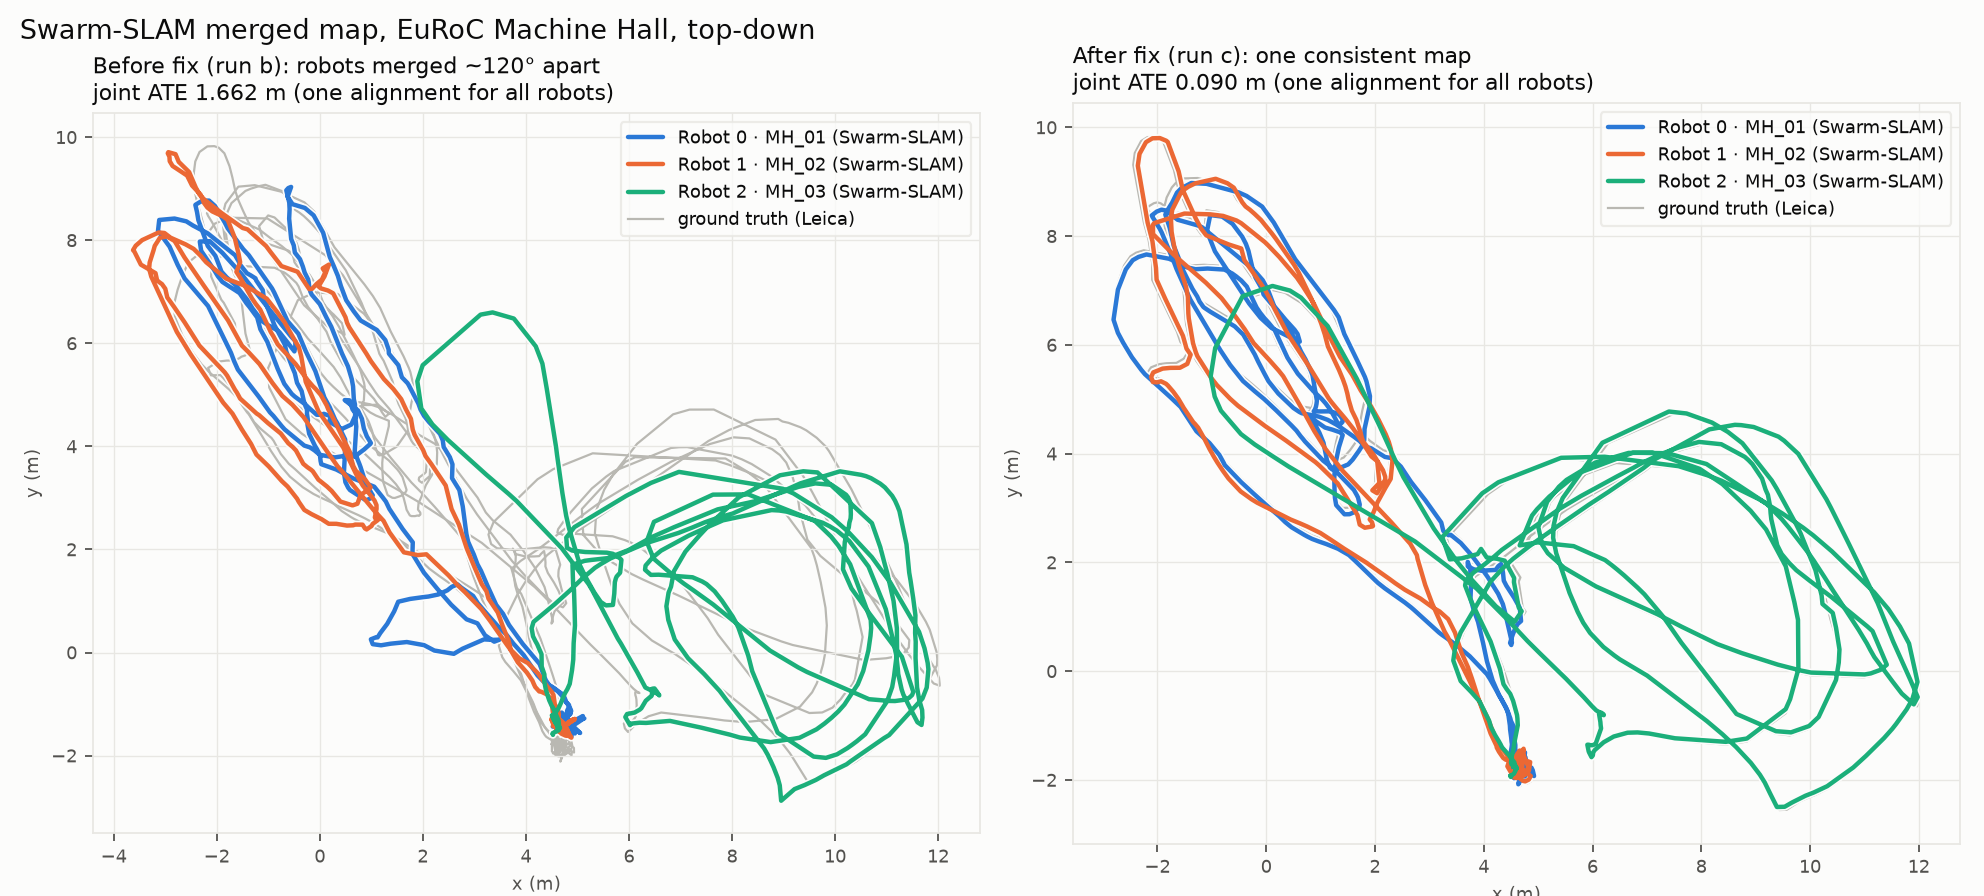
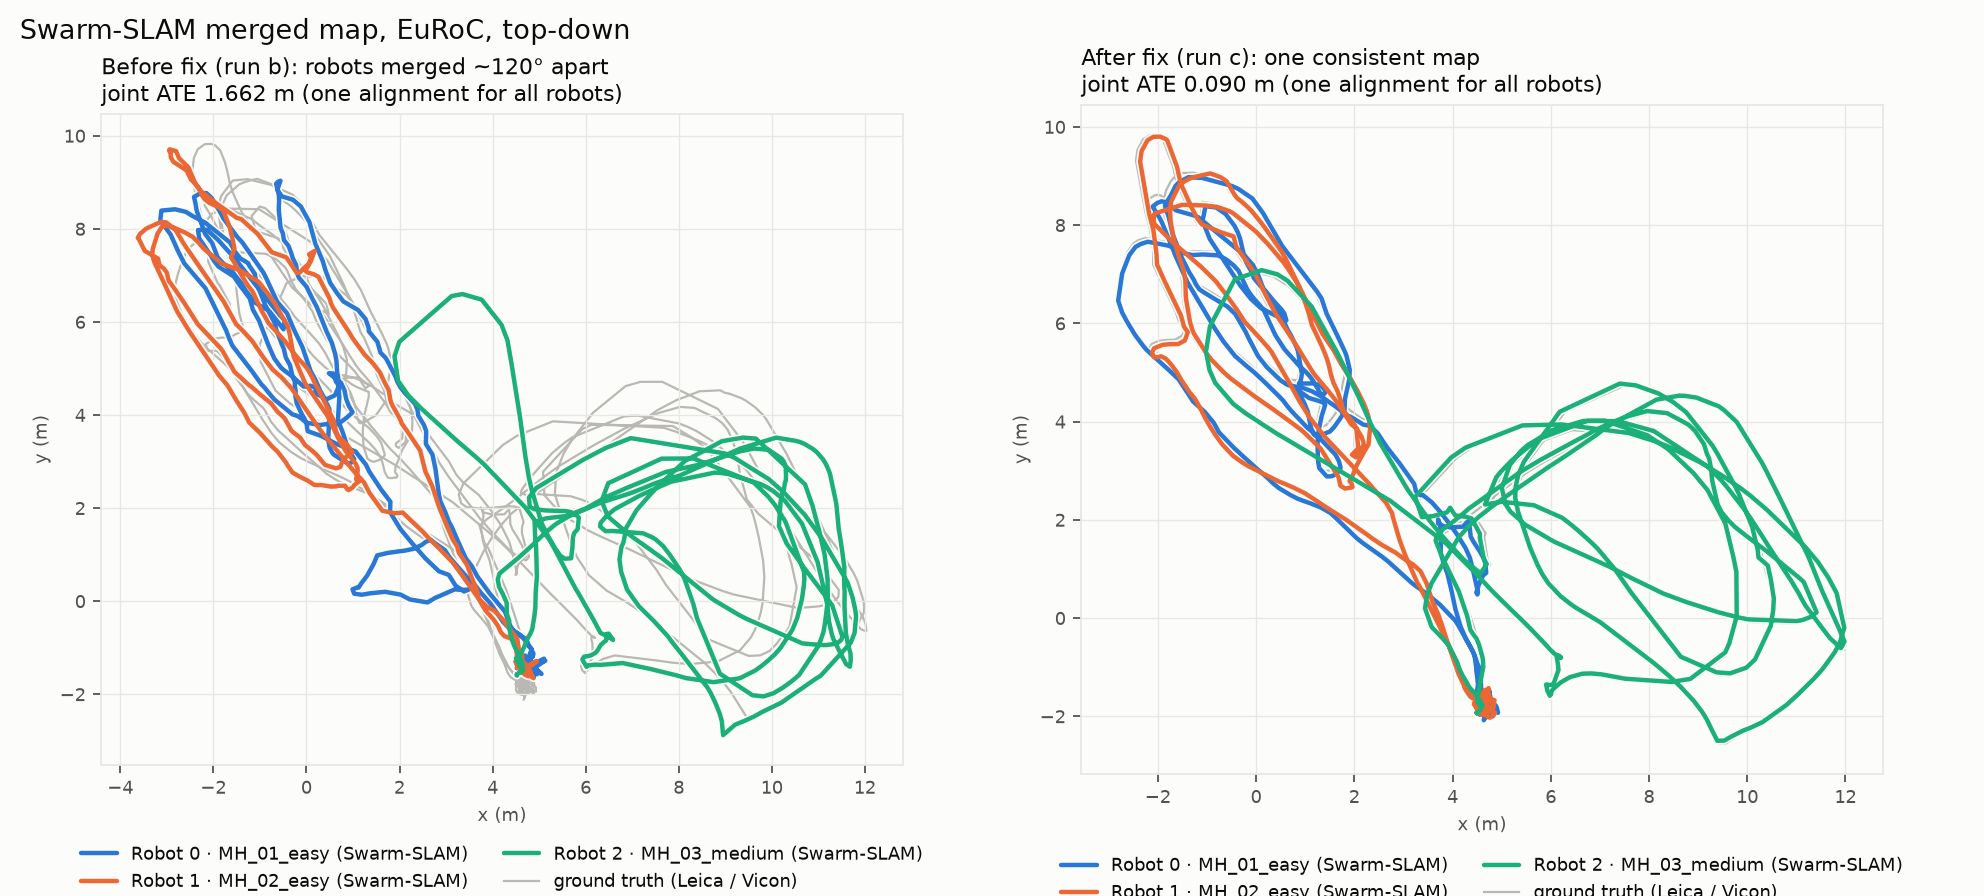
Vicon Room 1 run: joint ATE 0.895 -> 0.207 m merged; weak-tracking rule on tracking, not blur
Absolute blur threshold flagged 71-83% of normal Vicon frames (52 warnings); tracking-only
rule: 14, still catches both injected failures at the same times.

diff --git a/dashboard/index.html b/dashboard/index.html
@@ -136,7 +136,7 @@ td.num { font-variant-numeric: tabular-nums; }
 </main>
 <script>
 const CELL = 2.0;
-const WEAK_BLUR = 90, WEAK_TRACK = 0.5;
+const WEAK_TRACK = 0.5, MIN_FEATURES = 100;  // must match coordinator/main.py
 
 // Build the three tiles once; refresh() only updates their contents.
 const buildCameraTiles = () => document.getElementById("cams").innerHTML = [0, 1, 2].map(r => `
@@ -171,9 +171,9 @@ function renderCameras(s) {
     chip.className = "chip " + (q.weak ? "weak" : "ok");
     chip.textContent = q.weak ? "Tracking weak" : "Tracking OK";
     document.getElementById(`vals${r}`).innerHTML =
-      `<span>Blur <b>${fmt(q.blur, 0)}</b> <span class="t">(weak &lt; ${WEAK_BLUR})</span></span>` +
       `<span>Track inliers <b>${fmt(q.track_inliers, 2)}</b> <span class="t">(weak &lt; ${WEAK_TRACK})</span></span>` +
-      `<span>Features <b>${fmt(q.features, 0)}</b></span>`;
+      `<span>Features <b>${fmt(q.features, 0)}</b> <span class="t">(weak &lt; ${MIN_FEATURES})</span></span>` +
+      `<span>Blur <b>${fmt(q.blur, 0)}</b> <span class="t">(info)</span></span>`;
     const m = c.last_notification;
     document.getElementById(`msg${r}`).innerHTML = m
       ? `<span class="t">${hhmmss(m.t)}</span>${esc(m.message)}` : '<span class="empty">No message to this walker yet.</span>';

diff --git a/eval/quality_rules.py b/eval/quality_rules.py
@@ -1,0 +1,76 @@
+"""Compare weak-tracking rules across environments: warnings inside injected failure windows
+(should fire) vs everywhere else (should stay quiet).
+
+Usage: python -m eval.quality_rules <run_dir> [<run_dir> ...]
+Simulates the coordinator's 6-frame median window and 20 s cooldown on each run's quality events.
+"""
+import csv
+import json
+import statistics
+import sys
+from collections import deque
+
+WINDOW, COOLDOWN_S = 6, 20
+
+
+def rules():
+    # name -> fn(window_medians, baseline_blur) -> weak?
+    return {
+        "absolute (blur<90 or track<0.5)": lambda m, base: m["blur"] < 90 or m["track"] < 0.5,
+        "track only (<0.5)": lambda m, base: m["track"] < 0.5,
+        "relative (blur<0.35x own median or track<0.5)": lambda m, base: m["blur"] < 0.35 * base or m["track"] < 0.5,
+        "relative (blur<0.25x own median or track<0.5)": lambda m, base: m["blur"] < 0.25 * base or m["track"] < 0.5,
+    }
+
+
+def windows(run, r):
+    try:
+        rows = list(csv.DictReader(open(f"{run}/stamps_r{r}.csv")))
+    except FileNotFoundError:
+        return None
+    w = [int(x["ros_stamp_ns"]) / 1e9 for x in rows if x.get("perturbation")]
+    return (w[0], w[-1] + 3) if w else None
+
+
+def simulate(run, rule):
+    events = [json.loads(line) for line in open(f"{run}/events.jsonl")]
+    inside = outside = 0
+    hit_windows = set()
+    for r in range(3):
+        q = [e for e in events if e["type"] == "quality" and e["robot"] == r]
+        win = windows(run, r)
+        recent, history, last = deque(maxlen=WINDOW), deque(maxlen=150), -1e9
+        for e in q:
+            recent.append(e)
+            if e["track_inliers"] is None and e["features"] > 0:
+                continue
+            history.append(e["blur"])
+            if len(recent) < WINDOW or len(history) < 30:
+                continue
+            tr = [x["track_inliers"] for x in recent if x["track_inliers"] is not None]
+            m = {"blur": statistics.median(x["blur"] for x in recent),
+                 "track": statistics.median(tr) if tr else 0.0}
+            base = statistics.median(history)
+            t = e["stamp_ns"] / 1e9
+            if rule(m, base) and t - last >= COOLDOWN_S:
+                last = t
+                if win and win[0] <= t <= win[1]:
+                    inside += 1
+                    hit_windows.add(r)
+                else:
+                    outside += 1
+    n_windows = sum(1 for r in range(3) if windows(run, r))
+    return inside, outside, len(hit_windows), n_windows
+
+
+def main(*runs):
+    for name, rule in rules().items():
+        parts = []
+        for run in runs:
+            ins, out, hit, nwin = simulate(run, rule)
+            parts.append(f"{run.split('/')[-1]}: outside {out:2d}" + (f", failures caught {hit}/{nwin}" if nwin else ""))
+        print(f"{name:48s} | " + " | ".join(parts))
+
+
+if __name__ == "__main__":
+    main(*sys.argv[1:])

diff --git a/coordinator/main.py b/coordinator/main.py
@@ -18,9 +18,13 @@ import cv2
 from coordinator.store import Store
 from coordinator.verify import verify_pair
 
-# Tuned on run euroc3_r025_c (docs/FINDINGS.md item 10); see the report for the reasoning.
-WEAK_BLUR = 90.0          # ~5th percentile of median blur
-WEAK_TRACK = 0.50         # between the 1st and 5th percentile of track_inliers
+# Weak tracking = tracking inliers < WEAK_TRACK, or almost no features (a blank wall leaves nothing
+# to track). Blur is shown but no longer triggers: tuned at 90 in the bright Machine Hall, it flagged
+# 71-83% of normal frames in the darker Vicon Room (median blur 48-59) and caused 52 warnings there vs
+# 14 for tracking alone, while both rules caught both injected failures (eval/quality_rules.py).
+WEAK_BLUR = 90.0          # informational only (Machine Hall ~5th percentile)
+WEAK_TRACK = 0.50         # between the 1st and 5th percentile of track_inliers (runs c, v1)
+MIN_FEATURES = 100
 WINDOW = 6                # frames (~2.4 s at 2.5 fps)
 QUALITY_COOLDOWN_S = 20   # per camera, in data time
 CELL_M = 2.0              # place = 2 m grid cell on the merged map's ground plane (x, z)
@@ -74,10 +78,10 @@ class Coordinator:
         def med(k):  # track_inliers is None on a camera's first frame
             vals = [x[k] for x in w if x[k] is not None]
             return round(statistics.median(vals), 3) if vals else None
-        blur, track = med("blur"), med("track_inliers")
-        return {"camera": camera, "frames": len(w), "blur": blur, "features": med("features"),
+        blur, track, features = med("blur"), med("track_inliers"), med("features")
+        return {"camera": camera, "frames": len(w), "blur": blur, "features": features,
                 "track_inliers": track, "stereo_inliers": med("stereo_inliers"),
-                "weak": blur < WEAK_BLUR or (track is not None and track < WEAK_TRACK)}
+                "weak": features < MIN_FEATURES or (track is not None and track < WEAK_TRACK)}
 
     def get_overlaps(self):
         return {"overlaps": self.store.rows(
@@ -223,8 +227,8 @@ class Coordinator:
         self.ctx = {"trigger": "quality_drop", "values": {"opencv": q, "frame_stamp_ns": ev["stamp_ns"]},
                     "overlap_id": None}
         self._decide(r, f"Quality event: camera {r} OpenCV 5 window medians over {WINDOW} frames: "
-                        f"blur {q['blur']} (threshold {WEAK_BLUR}), track_inliers {q['track_inliers']} "
-                        f"(threshold {WEAK_TRACK}), features {q['features']}.",
+                        f"track_inliers {q['track_inliers']} (weak below {WEAK_TRACK}), features {q['features']} "
+                        f"(weak below {MIN_FEATURES}), blur {q['blur']} (informational).",
                      lambda: self.notify(r, f"Camera {r}, slow down, tracking is weak."))
 
     def _on_lc(self, ev):

diff --git a/tests/test_coordinator.py b/tests/test_coordinator.py
@@ -3,7 +3,7 @@ import json
 import cv2
 import numpy as np
 
-from coordinator.main import LOST_FRAMES, MIN_INLIERS, WEAK_BLUR, WINDOW, Coordinator
+from coordinator.main import LOST_FRAMES, MIN_INLIERS, WEAK_BLUR, WEAK_TRACK, WINDOW, Coordinator
 
 
 def make_run(tmp_path, same_view):
@@ -70,9 +70,26 @@ def test_slam_lost_with_good_images_notifies_then_recovers(tmp_path):
 def test_quality_drop_notifies_once_per_cooldown(tmp_path):
     c = make_run(tmp_path, same_view=True)
     for i in range(WINDOW * 3):
-        c.on_event({"type": "quality", "robot": 2, "stamp_ns": int(1e9 * (1 + i * 0.4)), "blur": WEAK_BLUR / 2,
-                    "features": 900, "stereo_inliers": 0.9, "track_inliers": 0.7, "passed": True, "ms": 1})
+        c.on_event({"type": "quality", "robot": 2, "stamp_ns": int(1e9 * (1 + i * 0.4)), "blur": 250.0,
+                    "features": 900, "stereo_inliers": 0.9, "track_inliers": WEAK_TRACK / 2, "passed": True, "ms": 1})
     notes = c.store.rows("SELECT * FROM notifications")
     assert [n["message"] for n in notes] == ["Camera 2, slow down, tracking is weak."]
     values = json.loads(c.store.rows("SELECT values_json FROM decisions")[0]["values_json"])
-    assert values["opencv"]["blur"] < WEAK_BLUR                      # the trace carries the OpenCV numbers
+    assert values["opencv"]["track_inliers"] < WEAK_TRACK            # the trace carries the OpenCV numbers
+
+
+def test_low_blur_alone_does_not_warn(tmp_path):
+    """A dark scene with low blur scores but healthy tracking (Vicon Room) must not nag walkers."""
+    c = make_run(tmp_path, same_view=True)
+    for i in range(WINDOW * 3):
+        c.on_event({"type": "quality", "robot": 1, "stamp_ns": int(1e9 * (1 + i * 0.4)), "blur": WEAK_BLUR / 2,
+                    "features": 900, "stereo_inliers": 0.9, "track_inliers": 0.7, "passed": True, "ms": 1})
+    assert not c.store.rows("SELECT * FROM notifications")
+
+
+def test_blank_wall_warns_without_track_score(tmp_path):
+    c = make_run(tmp_path, same_view=True)
+    for i in range(WINDOW * 2):  # blank wall: no features, so no tracking score at all
+        c.on_event({"type": "quality", "robot": 1, "stamp_ns": int(1e9 * (1 + i * 0.4)), "blur": 20.0,
+                    "features": 0, "stereo_inliers": 0.0, "track_inliers": None, "passed": True, "ms": 1})
+    assert [n["message"] for n in c.store.rows("SELECT * FROM notifications")] == ["Camera 1, slow down, tracking is weak."]

diff --git a/eval/plot_merge.py b/eval/plot_merge.py
@@ -58,7 +58,8 @@ def main(out, *runs):
         panel(ax, run, title or run)
     for ax in axes[0]:
         ax.plot([], [], color=GT_GRAY, lw=1.0, label="ground truth (Leica / Vicon)")
-        ax.legend(loc="upper right", fontsize=8, frameon=True, facecolor=SURFACE, edgecolor=GRID, labelcolor=INK)
+        # Below the axes: in a small room the paths fill the whole plot.
+        ax.legend(loc="upper center", bbox_to_anchor=(0.5, -0.1), ncol=2, fontsize=8, frameon=False, labelcolor=INK)
     fig.suptitle("Swarm-SLAM merged map, EuRoC, top-down", fontsize=12, color=INK, x=0.01, ha="left")
     fig.tight_layout()
     fig.savefig(out, dpi=160, facecolor=SURFACE)

diff --git a/docs/FINDINGS.md b/docs/FINDINGS.md
@@ -341,3 +341,35 @@ Bedrock overlap decision 2.2 s median (p90 2.5); dashboard polls every 1 s. Fram
 covered" on the dashboard is about 30 s median, dominated by loop-closure detection.
 
 **Trajectory, merged vs single:** see item 9 (run c 0.090 m joint; run d 0.079 m joint).
+
+## 12. Vicon Room 1 and the weak-tracking rule — MEASURED 2026-10-24
+
+Data: EuRoC V1_01_easy / V1_02_medium / V1_03_difficult (145 / 85 / 107 s), same stereo rig as
+the Machine Hall (same calibration, 0.1101 m baseline), Vicon ground truth, same mirror
+(`scripts/fetch_euroc.py vicon_room1 ...`). Unpacked: 2.1 + 1.3 + 1.6 GB. Run `v1_r025_a`, quarter speed.
+
+| ATE vs Vicon | cam 0 | cam 1 | cam 2 | joint |
+|---|---|---|---|---|
+| odometry only | 0.286 m | 0.317 m | 0.458 m | 0.895 m |
+| Swarm-SLAM merged | 0.243 m | 0.059 m | 0.159 m | **0.207 m** |
+
+- These flights don't share a start pose, so here the odometry-only joint ATE is a fair
+  "not merged" baseline: merging cuts it from 0.895 to 0.207 m.
+- 12 inter-robot closures accepted, 167 rejected by Swarm-SLAM (483 measurement log lines).
+- Coverage: precision 1.00 (7/7), recall 0.667 (6/9 co-visited cells). The small room
+  overlaps constantly. Figure: `docs/figures/merge_vicon_room1.png`.
+
+**The blur threshold did not transfer.** Tuned at 90 in the bright hall, blur < 90 held for
+31% / 71% / 83% of normal Vicon frames (median blur 128 / 59 / 48), while tracking was healthy
+(median track_inliers 0.65–0.69; 2 lost-odometry frames in total). Comparison
+(`eval/quality_rules.py`, 6-frame median, 20 s cooldown):
+
+| Rule | hall d | hall e / f (failures caught) | Vicon v1 |
+|---|---|---|---|
+| blur < 90 or track < 0.5 (old) | 15 | 16 / 16 (2/2) | 52 |
+| **track < 0.5 or features < 100 (new)** | 7 | 7 / 7 (2/2) | 14 |
+| blur < 0.25x own median or track < 0.5 | 10 | 10 / 10 (2/2) | 19 |
+
+New rule adopted. Blur is shown but doesn't trigger. Failure timing is unchanged (run f:
+"slow down" +0.3 s blank, +0.2 s shake). Tests: low blur alone doesn't warn; a blank wall
+(0 features, no tracking score) does.
